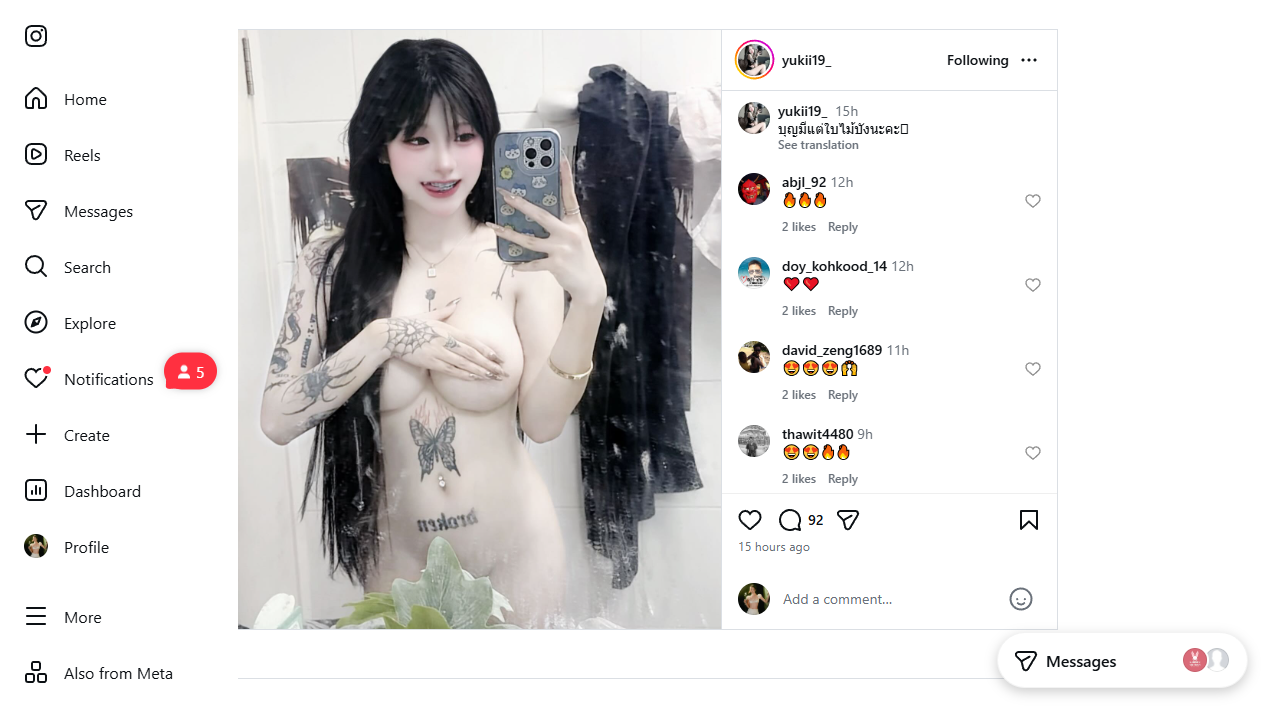
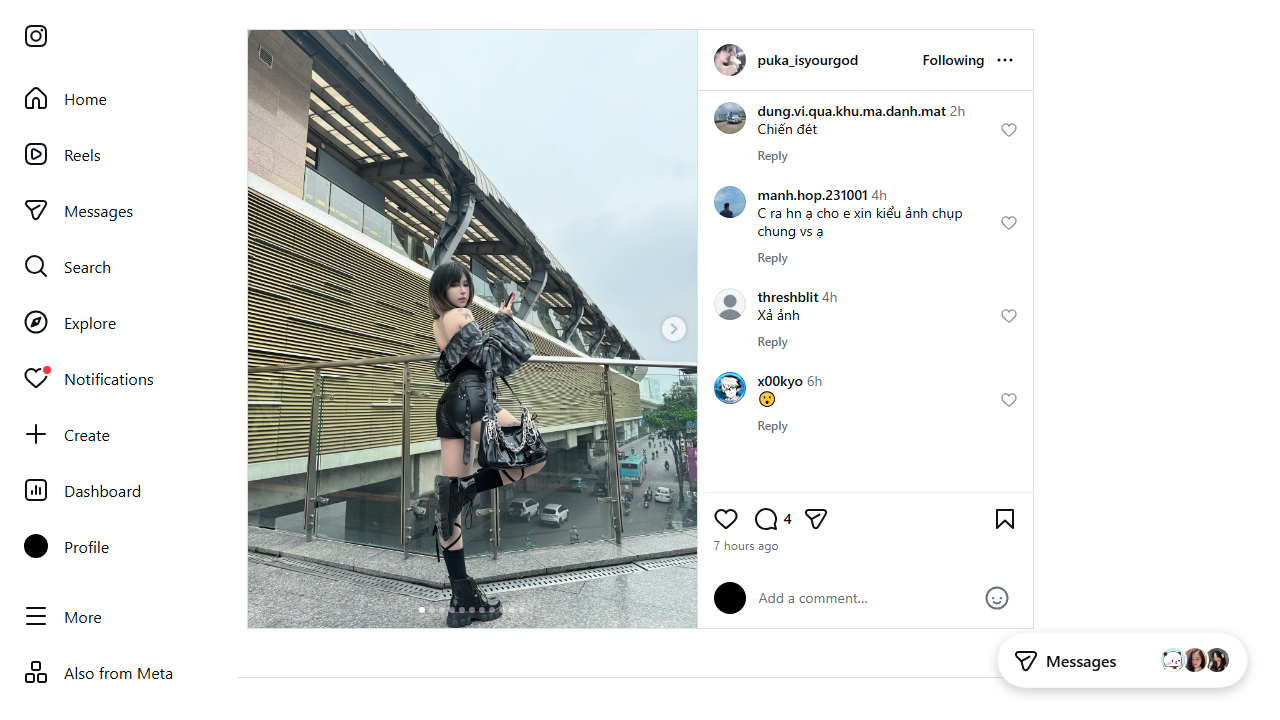
add edit json

diff --git a/templates/import.html b/templates/import.html
@@ -1,0 +1,241 @@
+<!DOCTYPE html>
+<html lang="vi">
+<head>
+    <meta charset="UTF-8">
+    <meta name="viewport" content="width=device-width, initial-scale=1.0">
+    <title>Import Cookies - Scraper</title>
+    <link href="https://fonts.googleapis.com/css2?family=Inter:wght@400;600&display=swap" rel="stylesheet">
+    <style>
+        :root {
+            --primary: #6366f1;
+            --primary-hover: #4f46e5;
+            --bg: #0f172a;
+            --card-bg: #1e293b;
+            --text: #f1f5f9;
+            --text-muted: #94a3b8;
+            --success: #22c55e;
+            --error: #ef4444;
+        }
+
+        body {
+            font-family: 'Inter', sans-serif;
+            background-color: var(--bg);
+            color: var(--text);
+            margin: 0;
+            display: flex;
+            justify-content: center;
+            align-items: center;
+            min-height: 100vh;
+            padding: 20px;
+        }
+
+        .container {
+            width: 100%;
+            max-width: 800px;
+            background: var(--card-bg);
+            padding: 2.5rem;
+            border-radius: 1rem;
+            box-shadow: 0 25px 50px -12px rgba(0, 0, 0, 0.5);
+        }
+
+        h1 {
+            font-weight: 600;
+            text-align: center;
+            margin-bottom: 2.5rem;
+            background: linear-gradient(to right, #818cf8, #c084fc);
+            -webkit-background-clip: text;
+            background-clip: text;
+            -webkit-text-fill-color: transparent;
+        }
+
+        .import-row {
+            display: grid;
+            grid-template-columns: 120px 1fr 120px;
+            gap: 1.5rem;
+            align-items: center;
+            margin-bottom: 2rem;
+            padding-bottom: 2rem;
+            border-bottom: 1px solid #334155;
+        }
+
+        .import-row:last-child {
+            border-bottom: none;
+            margin-bottom: 1rem;
+        }
+
+        .source-label {
+            font-weight: 600;
+            color: var(--text-muted);
+            text-transform: uppercase;
+            font-size: 0.85rem;
+            letter-spacing: 0.05em;
+        }
+
+        textarea {
+            width: 100%;
+            height: 45px;
+            padding: 0.75rem 1rem;
+            border-radius: 0.5rem;
+            border: 1px solid #334155;
+            background: #0f172a;
+            color: white;
+            box-sizing: border-box;
+            transition: all 0.2s;
+            resize: none;
+            font-family: monospace;
+            font-size: 0.85rem;
+        }
+
+        textarea:focus {
+            outline: none;
+            border-color: var(--primary);
+            height: 120px;
+        }
+
+        .btn-load {
+            padding: 0.75rem;
+            border-radius: 0.5rem;
+            border: none;
+            background: var(--primary);
+            color: white;
+            font-weight: 600;
+            cursor: pointer;
+            transition: all 0.2s;
+            white-space: nowrap;
+        }
+
+        .btn-load:hover {
+            background: var(--primary-hover);
+            transform: translateY(-1px);
+        }
+
+        .btn-load:active {
+            transform: translateY(0);
+        }
+
+        .btn-load.success {
+            background: var(--success);
+            cursor: default;
+        }
+
+        .status-msg {
+            font-size: 0.85rem;
+            margin-top: 0.5rem;
+            text-align: center;
+            display: none;
+        }
+
+        .status-msg.error {
+            color: var(--error);
+            display: block;
+        }
+
+        .back-link {
+            display: block;
+            text-align: center;
+            margin-top: 1rem;
+            color: var(--text-muted);
+            text-decoration: none;
+            font-size: 0.9rem;
+            transition: color 0.2s;
+        }
+
+        .back-link:hover {
+            color: var(--primary);
+        }
+    </style>
+</head>
+<body>
+    <div class="container">
+        <h1>Nạp Cookies</h1>
+        
+        <!-- X / Twitter -->
+        <div class="import-row">
+            <div class="source-label">Twitter / X</div>
+            <textarea id="temp_x" placeholder="Dán JSON cookie của X vào đây..."></textarea>
+            <button class="btn-load" onclick="loadCookie('x')">Load</button>
+        </div>
+        <div id="status_x" class="status-msg"></div>
+
+        <!-- Instagram -->
+        <div class="import-row">
+            <div class="source-label">Instagram</div>
+            <textarea id="temp_insta" placeholder="Dán JSON cookie của Instagram vào đây..."></textarea>
+            <button class="btn-load" onclick="loadCookie('insta')">Load</button>
+        </div>
+        <div id="status_insta" class="status-msg"></div>
+
+        <!-- Facebook -->
+        <div class="import-row">
+            <div class="source-label">Facebook</div>
+            <textarea id="temp_fb" placeholder="Dán JSON cookie của Facebook vào đây..."></textarea>
+            <button class="btn-load" onclick="loadCookie('fb')">Load</button>
+        </div>
+        <div id="status_fb" class="status-msg"></div>
+
+        <a href="/" class="back-link">&larr; Quay lại trang chủ</a>
+    </div>
+
+    <script>
+        async function loadCookie(source) {
+            const textarea = document.getElementById(`temp_${source}`);
+            const btn = textarea.nextElementSibling;
+            const statusDiv = document.getElementById(`status_${source}`);
+            const content = textarea.value.trim();
+
+            if (!content) {
+                alert('Vui lòng dán nội dung JSON!');
+                return;
+            }
+
+            try {
+                // Pre-validate JSON on client side
+                JSON.parse(content);
+            } catch (e) {
+                statusDiv.innerText = 'Dữ liệu không phải JSON hợp lệ!';
+                statusDiv.className = 'status-msg error';
+                return;
+            }
+
+            btn.disabled = true;
+            btn.innerText = 'Đang nạp...';
+            statusDiv.style.display = 'none';
+
+            try {
+                const formData = new FormData();
+                formData.append('source', source);
+                formData.append('content', content);
+
+                const response = await fetch('/import', {
+                    method: 'POST',
+                    body: formData
+                });
+
+                const result = await response.json();
+
+                if (response.ok) {
+                    textarea.value = ''; // Clear token
+                    btn.innerText = 'Đã nạp';
+                    btn.classList.add('success');
+                    statusDiv.style.display = 'none';
+                    
+                    // Reset button after 3 seconds if they want to load again
+                    setTimeout(() => {
+                        btn.disabled = false;
+                        btn.innerText = 'Load';
+                        btn.classList.remove('success');
+                    }, 3000);
+                } else {
+                    throw new Error(result.error || 'Lỗi không xác định');
+                }
+            } catch (err) {
+                btn.disabled = false;
+                btn.innerText = 'Thử lại';
+                statusDiv.innerText = err.message;
+                statusDiv.className = 'status-msg error';
+                statusDiv.style.display = 'block';
+            }
+        }
+    </script>
+</body>
+</html>

diff --git a/index.py b/index.py
@@ -11,6 +11,40 @@ app = FastAPI()
 templates = Jinja2Templates(directory="templates")
 scraper = MediaScraper()
 
+# Đảm bảo thư mục lưu trữ cookie tồn tại
+if not os.path.exists("json"):
+    os.makedirs("json")
+
+@app.get("/import", response_class=HTMLResponse)
+async def import_page(request: Request):
+    return templates.TemplateResponse(request, "import.html", {"request": request})
+
+@app.post("/import")
+async def import_cookie(source: str = Form(...), content: str = Form(...)):
+    """Lưu cookie JSON vào file tưng ứng: x.json, insta.json, fb.json"""
+    valid_sources = {
+        "x": "x.json",
+        "insta": "insta.json",
+        "fb": "fb.json"
+    }
+    
+    if source not in valid_sources:
+        return JSONResponse(content={"error": "Nguồn không hợp lệ"}, status_code=400)
+    
+    try:
+        # Kiểm tra xem có đúng định dạng JSON không
+        cookie_data = json.loads(content)
+        
+        file_path = os.path.join("json", valid_sources[source])
+        with open(file_path, "w", encoding="utf-8") as f:
+            json.dump(cookie_data, f, indent=4, ensure_ascii=False)
+            
+        return JSONResponse(content={"status": "success", "message": "Đã nạp"})
+    except json.JSONDecodeError:
+        return JSONResponse(content={"error": "Dữ liệu không phải JSON hợp lệ"}, status_code=400)
+    except Exception as e:
+        return JSONResponse(content={"error": f"Lỗi: {str(e)}"}, status_code=500)
+
 @app.exception_handler(Exception)
 async def global_exception_handler(request: Request, exc: Exception):
     import traceback
